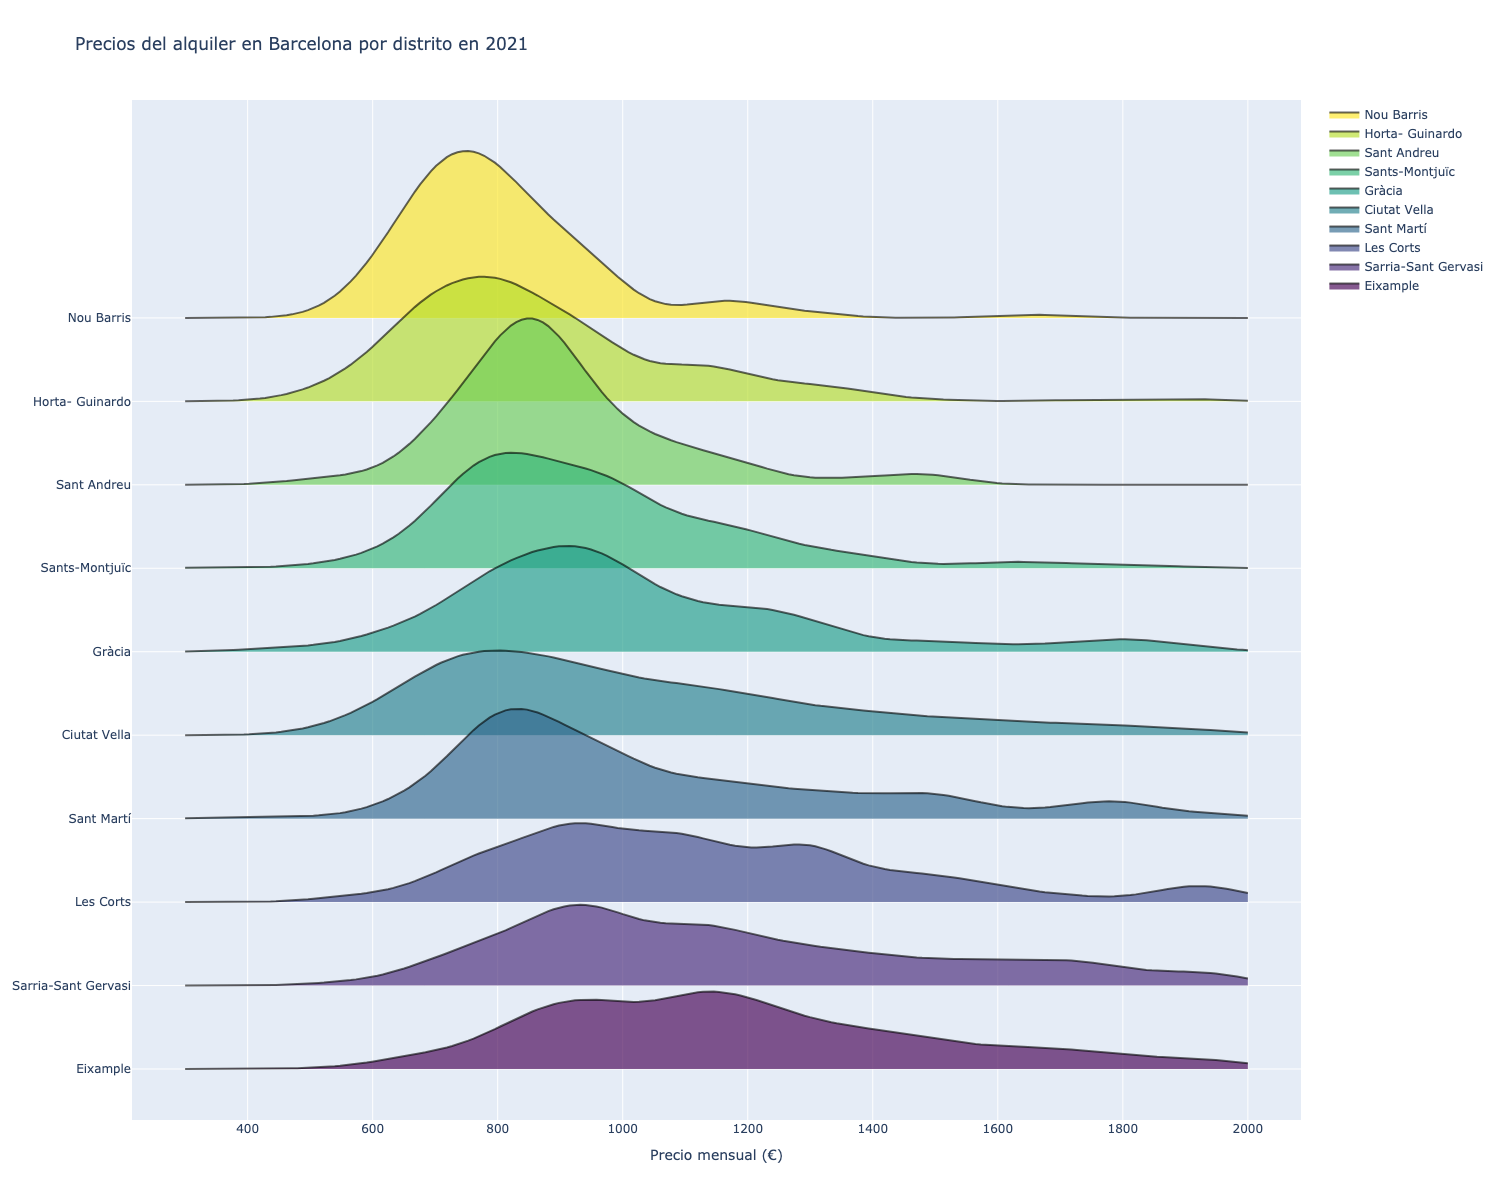
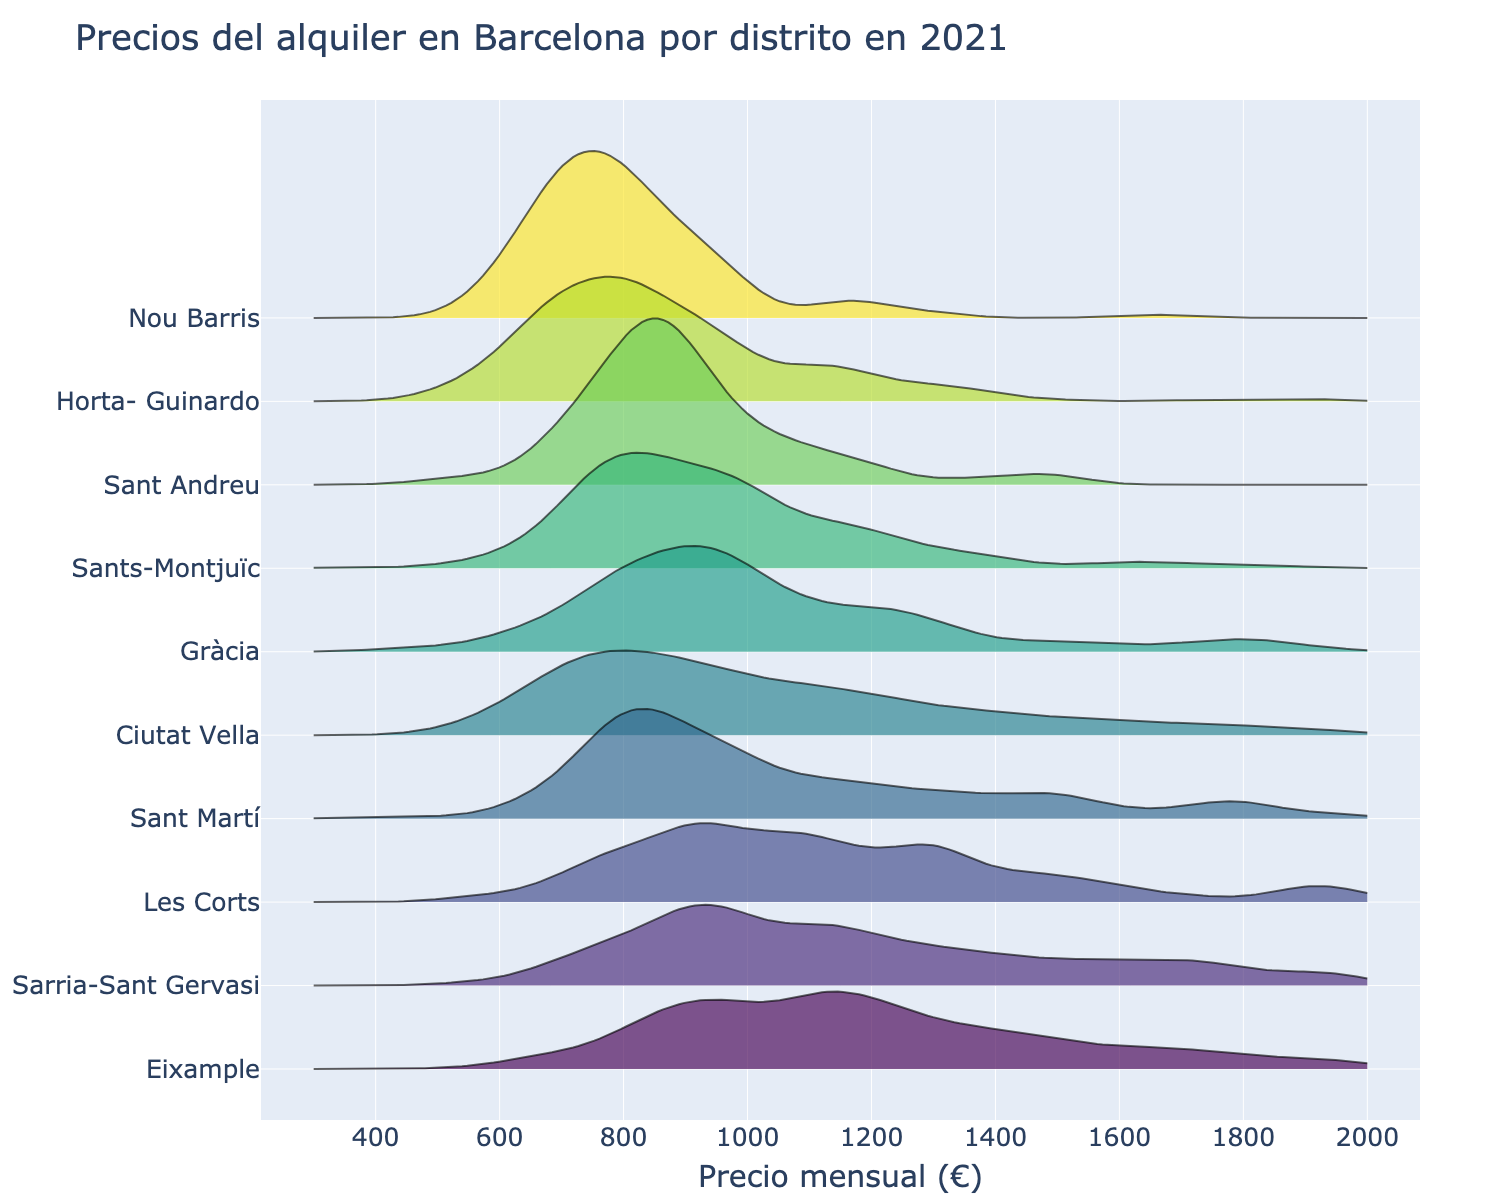
remove legend and increase font size for ridgeline plot

diff --git a/ridgeline_chart.py b/ridgeline_chart.py
@@ -42,10 +42,16 @@ fig = ridgeplot(
     coloralpha=0.65,
     labels=sorted_neighborhoods,
     linewidth=2,
-    spacing=0.5
+    spacing=0.5,
 )
 
-fig.update_layout(height=1200, width=1500, title_text='Precios del alquiler en Barcelona por distrito en 2021', xaxis_title_text = 'Precio mensual (€)')
+fig.update_layout(
+    height=1200,
+    width=1500,
+    title_text='Precios del alquiler en Barcelona por distrito en 2021',
+    xaxis_title_text = 'Precio mensual (€)',
+    font_size=25,
+    showlegend=False)
 
 
 fig.write_image("./plots/barcelona_rent.png")
